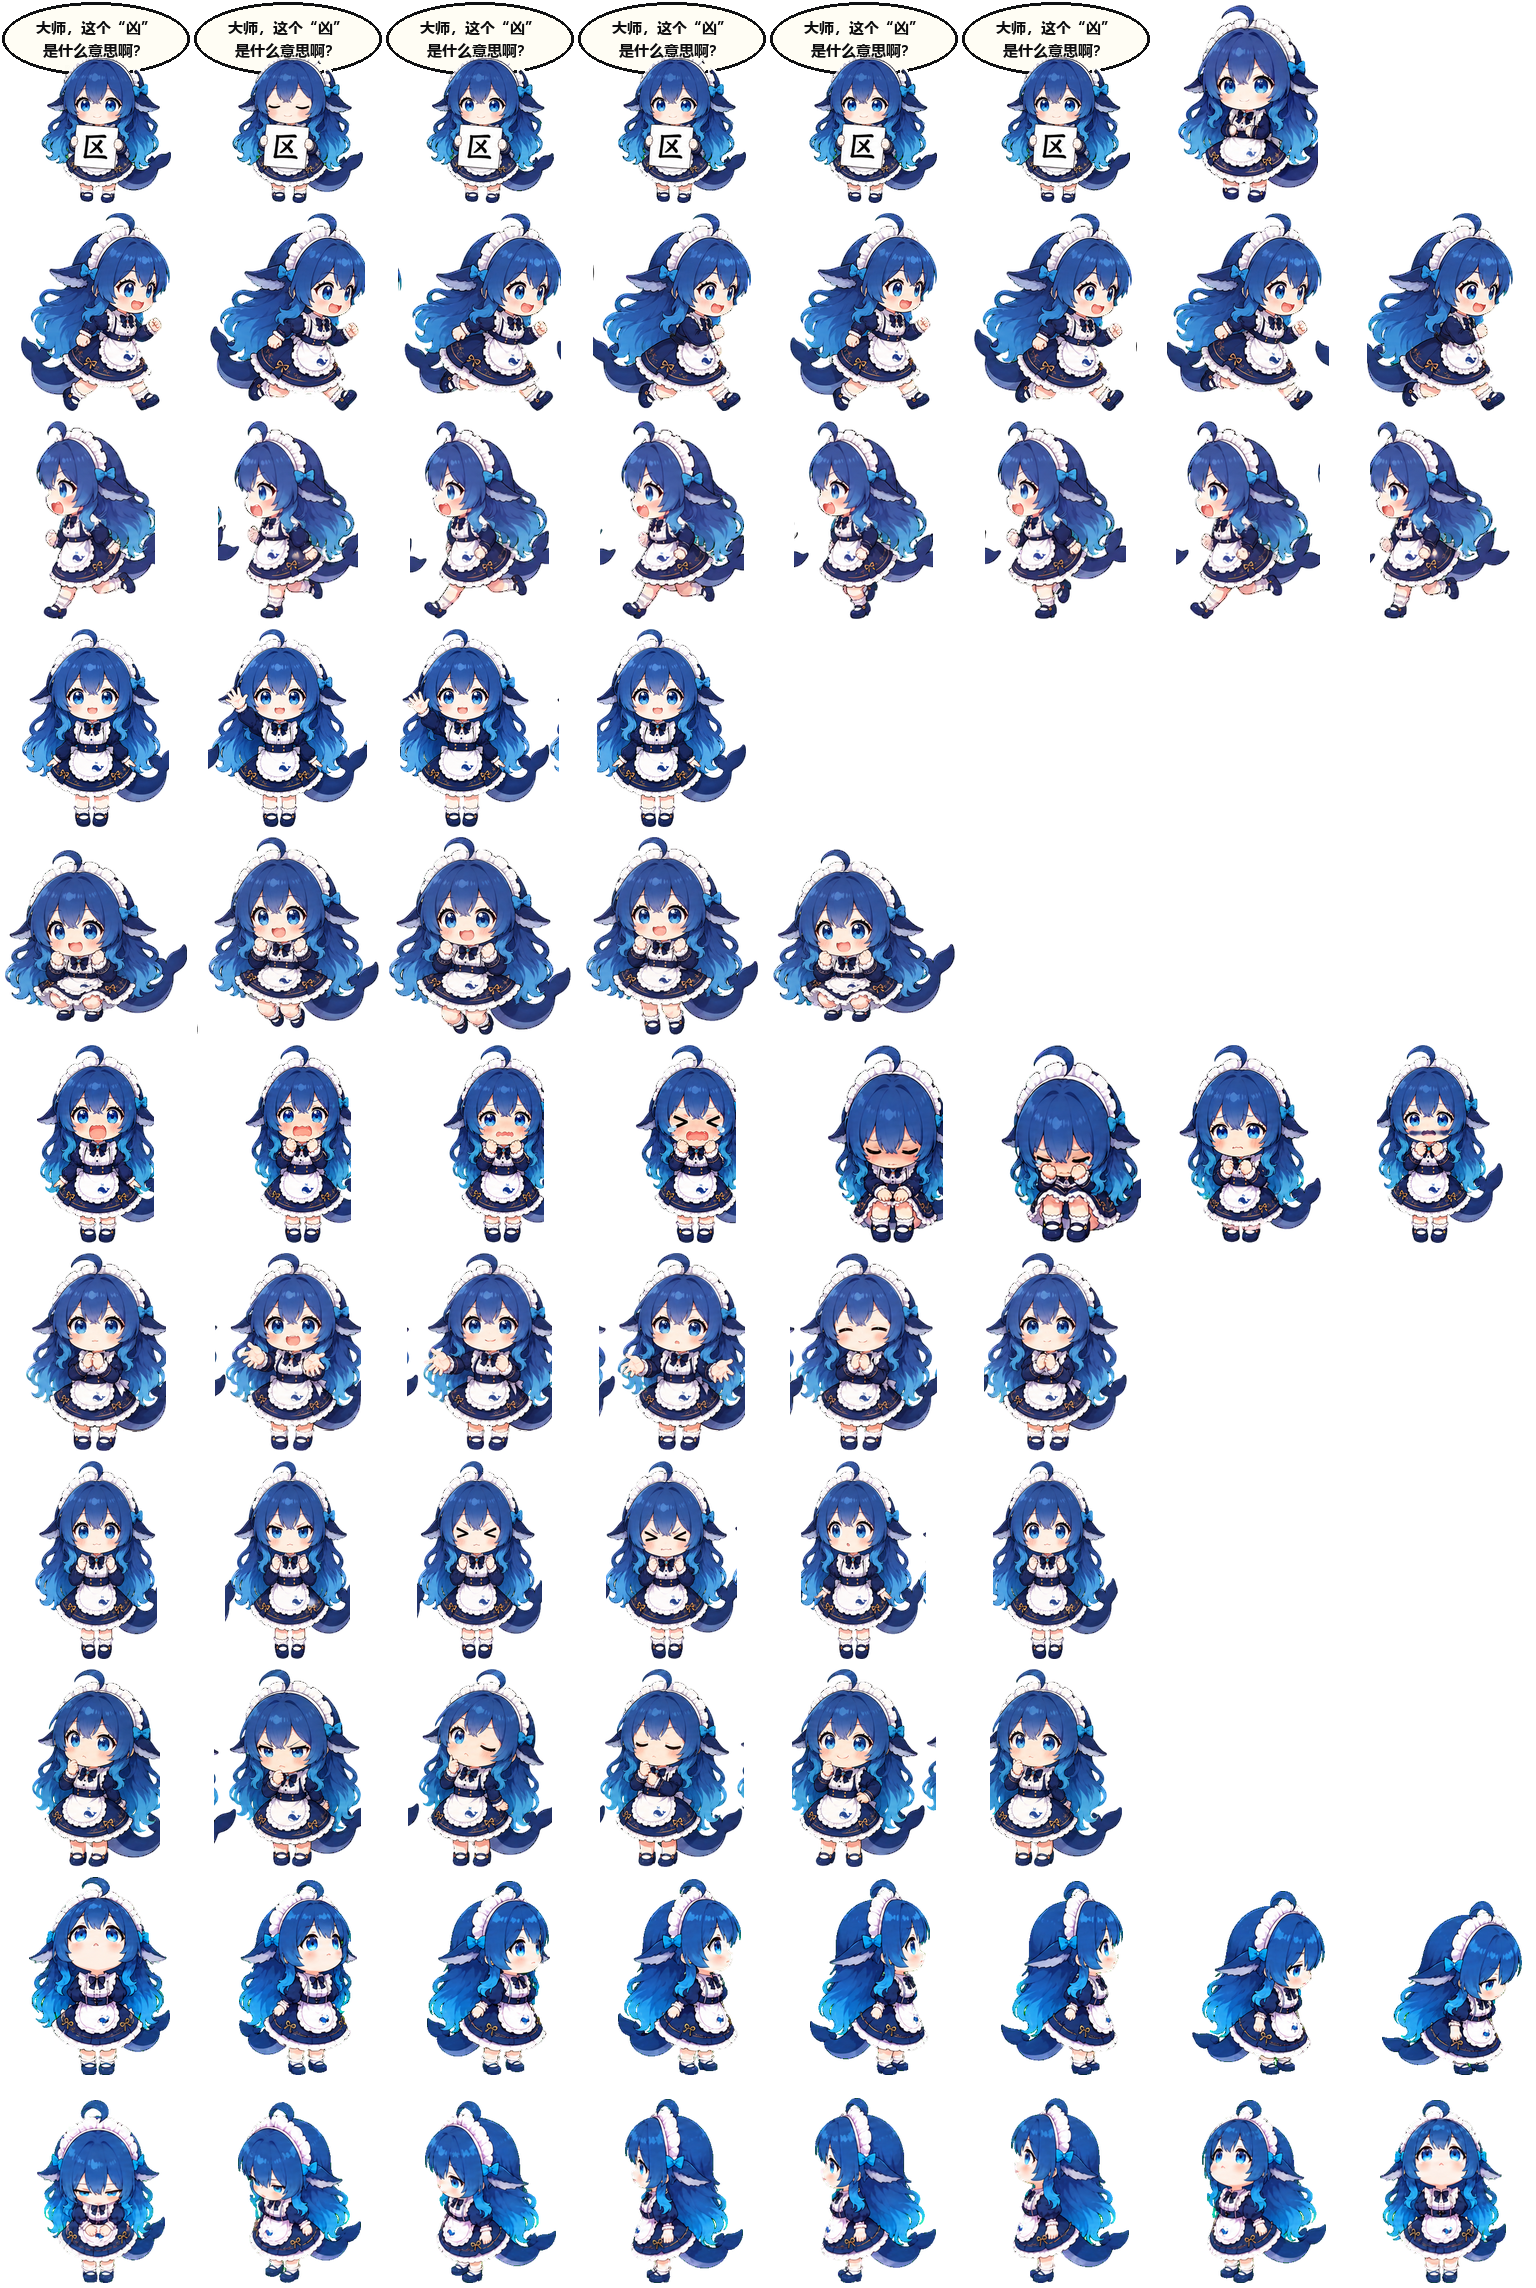
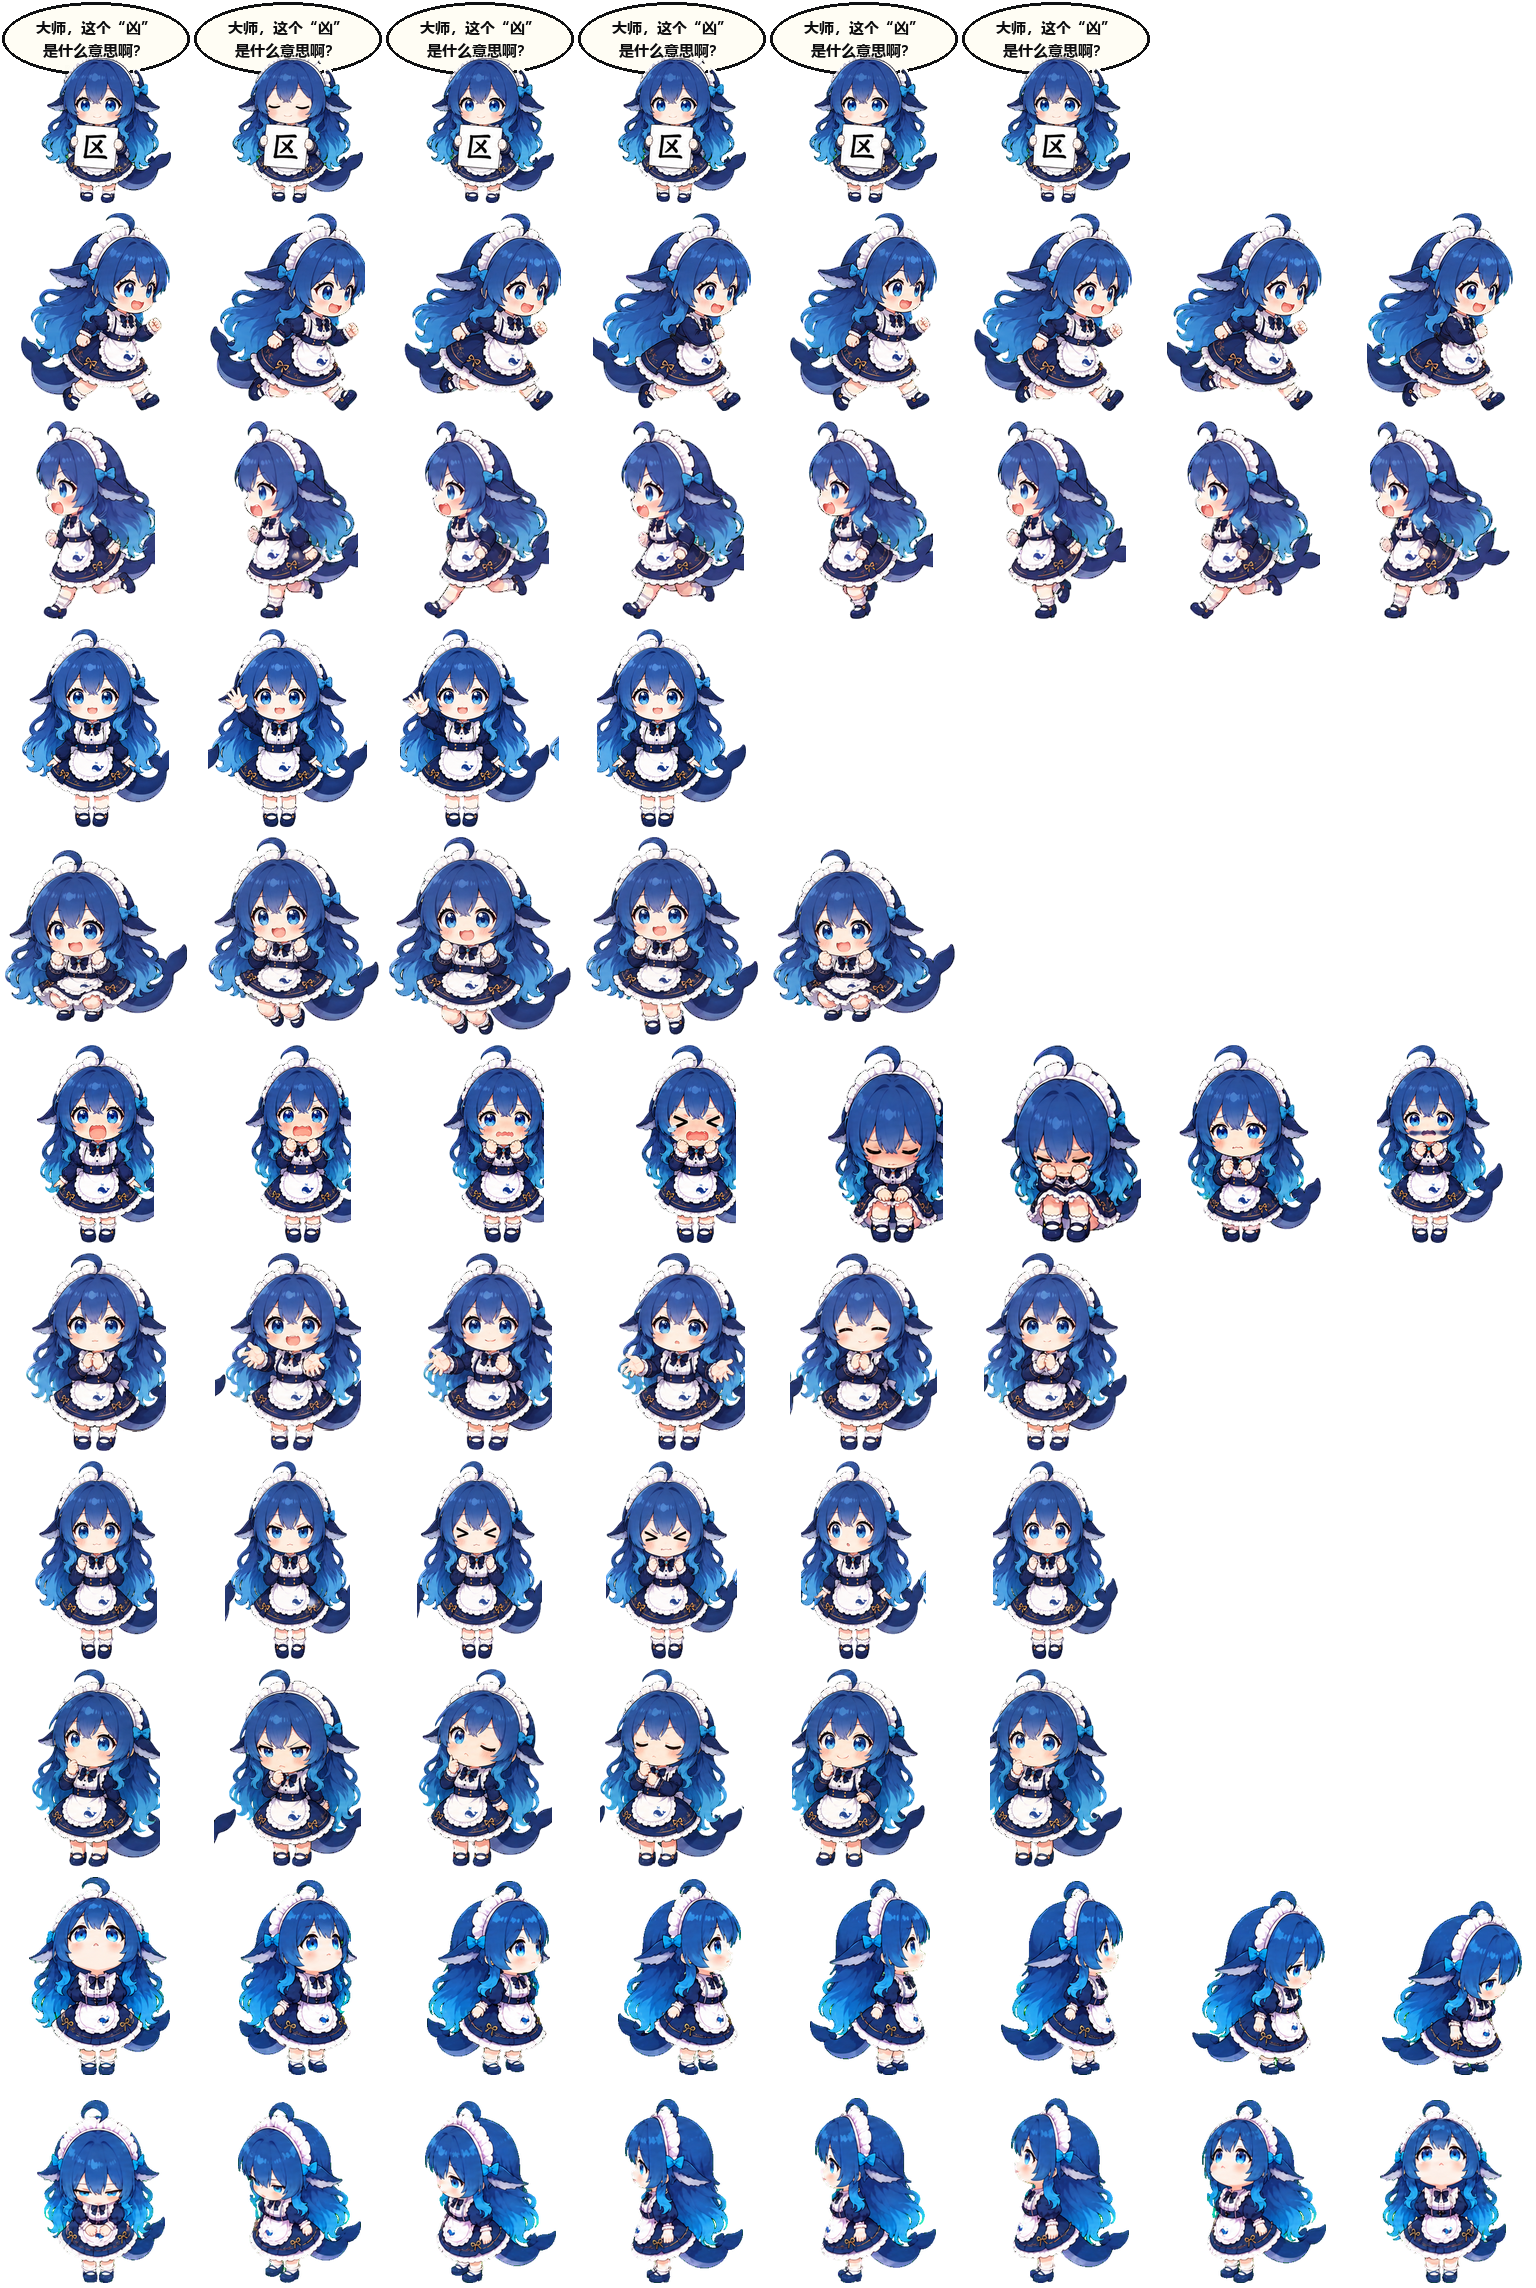
fix: smooth built-in DeepSeek pet

Changed region(s): [[0.75, 0.0, 0.875, 0.0931], [0.375, 0.5896, 0.4062, 0.6206], [0.125, 0.2172, 0.1562, 0.2483]]

diff --git a/packages/companion/src/pet.tsx b/packages/companion/src/pet.tsx
@@ -13,6 +13,7 @@ import {
 import defaultSpritesheet from '../assets/deepseek-pet.webp'
 import {
   clampPetPosition,
+  defaultPetFrameOffset,
   petFrameAt,
   petAtlasRows,
   petTimeline,
@@ -90,9 +91,9 @@ const DEFAULT_PET: PetRecord = {
 }
 
 const PET_CSS = `
- .dsd-pet{--dsd-pet-scale:1.15;position:fixed;z-index:110;bottom:94px;width:calc(192px * var(--dsd-pet-scale));height:calc(208px * var(--dsd-pet-scale));padding:0;border:0;background:transparent;cursor:grab;filter:drop-shadow(0 10px 16px rgb(0 0 0 / 28%));outline:none;touch-action:none;user-select:none;will-change:left,top;contain:layout paint}
+ .dsd-pet{--dsd-pet-scale:1.15;position:fixed;z-index:110;bottom:94px;width:calc(192px * var(--dsd-pet-scale));height:calc(208px * var(--dsd-pet-scale));padding:0;border:0;background:transparent;cursor:grab;filter:drop-shadow(0 8px 12px rgb(0 0 0 / 22%));outline:none;touch-action:none;user-select:none;will-change:left,top;contain:layout}
 .dsd-pet[data-anchor='left']{left:18px}.dsd-pet[data-anchor='right']{right:clamp(18px,34vw,460px)}.dsd-pet[data-dragging='true']{cursor:grabbing;z-index:111}
- .dsd-petSprite{position:absolute;inset:0 auto auto 0;display:block;width:var(--dsd-pet-frame-width);height:var(--dsd-pet-frame-height);background-repeat:no-repeat;background-size:var(--dsd-pet-atlas-width) var(--dsd-pet-atlas-height);background-position:var(--dsd-pet-x) var(--dsd-pet-y);image-rendering:auto;will-change:background-position}
+ .dsd-petSprite{position:absolute;inset:0 auto auto 0;display:block;width:var(--dsd-pet-frame-width);height:var(--dsd-pet-frame-height);background-repeat:no-repeat;background-size:var(--dsd-pet-atlas-width) var(--dsd-pet-atlas-height);background-position:var(--dsd-pet-x) var(--dsd-pet-y);transform:translate(var(--dsd-pet-offset-x,0),var(--dsd-pet-offset-y,0));image-rendering:auto;will-change:background-position,transform}
 .dsd-petStatus{position:absolute;right:4px;bottom:-27px;max-width:210px;overflow:hidden;padding:5px 10px;border:1px solid var(--dsw-alias-border-l2);border-radius:999px;color:var(--dsw-alias-label-secondary);background:color-mix(in srgb,var(--dsw-alias-bg-base) 91%,transparent);box-shadow:var(--dsw-shadow-lv1);font:12px/1.2 system-ui,sans-serif;text-overflow:ellipsis;white-space:nowrap;opacity:0;transform:translateY(4px);transition:opacity .15s ease,transform .15s ease;pointer-events:none}
 .dsd-pet:hover .dsd-petStatus,.dsd-pet:focus-visible .dsd-petStatus,.dsd-pet[data-attention='true'] .dsd-petStatus{opacity:1;transform:none}.dsd-pet:focus-visible{outline:2px solid var(--dsw-alias-border-l3);outline-offset:4px}
 .dsd-petSectionTitle{justify-content:space-between}.dsd-petToggle{display:flex;align-items:center;gap:7px;color:var(--dsw-alias-label-primary);font-size:12px;font-weight:400;cursor:pointer}.dsd-petToggle input{margin:0;accent-color:var(--dsw-alias-state-business-primary)}
@@ -355,11 +356,20 @@ export function PetOverlay({
     : clampPetPosition({ x: controller.settings.x, y: controller.settings.y }, petSize, viewport)
   const hoverMode: PetMode = hovered && baseSignal.mode === 'idle' ? 'jumping' : baseSignal.mode
   const mode: PetMode = drag?.direction ?? hoverMode
-  const frame = usePetFrame(mode, drag?.direction !== undefined, `${controller.selectedPet.id}:${baseSignal.key}:${hovered}:${drag?.direction ?? ''}`, controller.settings.animated)
+  const frame = usePetFrame(
+    mode,
+    drag?.direction !== undefined,
+    `${controller.selectedPet.id}:${baseSignal.key}:${hovered}:${drag?.direction ?? ''}`,
+    controller.settings.animated,
+    controller.selectedPet.id === DEFAULT_PET_ID
+  )
   const looking = lookIndex !== undefined && mode === 'idle' && pointerLookEnabled
   const calmFrameRow = controller.selectedPet.id === DEFAULT_PET_ID && frame.row === 0 ? 6 : frame.row
   const row = looking ? 9 + Math.floor(lookIndex / 8) : calmFrameRow
   const column = looking ? lookIndex % 8 : frame.column
+  const frameOffset = controller.selectedPet.id === DEFAULT_PET_ID && !looking
+    ? defaultPetFrameOffset(row, column)
+    : { x: 0, y: 0 }
   const attention = baseSignal.mode === 'failed' || baseSignal.mode === 'review' || baseSignal.mode === 'waiting'
   const label = drag !== undefined
     ? '正在移动'
@@ -379,7 +389,9 @@ export function PetOverlay({
     '--dsd-pet-atlas-width': `${1536 * scale}px`,
     '--dsd-pet-atlas-height': `${petAtlasRows(controller.selectedPet.spriteVersionNumber) * PET_FRAME_HEIGHT * scale}px`,
     '--dsd-pet-x': `${-(column * PET_FRAME_WIDTH * scale)}px`,
-    '--dsd-pet-y': `${-(row * PET_FRAME_HEIGHT * scale)}px`
+    '--dsd-pet-y': `${-(row * PET_FRAME_HEIGHT * scale)}px`,
+    '--dsd-pet-offset-x': `${frameOffset.x * scale}px`,
+    '--dsd-pet-offset-y': `${frameOffset.y * scale}px`
   } as CSSProperties
 
   const onPointerDown = (event: ReactPointerEvent<HTMLButtonElement>): void => {
@@ -576,8 +588,8 @@ export function PetSettings({ controller }: { controller: PetController }): Reac
   </>
 }
 
-function usePetFrame(mode: PetMode, continuous: boolean, key: string, animated: boolean): PetFrameStep {
-  const timeline = petTimeline(mode, continuous)
+function usePetFrame(mode: PetMode, continuous: boolean, key: string, animated: boolean, smoothCadence: boolean): PetFrameStep {
+  const timeline = petTimeline(mode, continuous, smoothCadence ? 'smooth' : 'codex')
   const [sample, setSample] = useState(() => petFrameAt(timeline, 0))
   useEffect(() => {
     setSample(petFrameAt(timeline, 0))

diff --git a/packages/companion/src/pet-runtime.ts b/packages/companion/src/pet-runtime.ts
@@ -52,6 +52,8 @@ export interface PetPoint {
   y: number
 }
 
+export type PetAnimationCadence = 'codex' | 'smooth'
+
 export const PET_FRAME_WIDTH = 192
 export const PET_FRAME_HEIGHT = 208
 export const PET_ATLAS_COLUMNS = 8
@@ -73,9 +75,25 @@ const ANIMATIONS: Record<Exclude<PetMode, 'idle'>, { row: number; frames: number
   review: { row: 8, frames: 6, duration: 150, finalDuration: 280 }
 }
 
+const SMOOTH_ANIMATION_DURATION = 83
+const SMOOTH_FINAL_FRAME_DURATION = 125
+const DEFAULT_PET_FOOT_ANCHOR_X = 96
+const DEFAULT_PET_FOOT_ANCHORS: Readonly<Record<number, readonly number[]>> = {
+  1: [137, 150, 153, 146, 78, 149, 145, 143],
+  2: [55, 78, 54, 61, 90, 84.5, 52, 50],
+  3: [92, 87, 78, 80.5],
+  4: [86, 101, 97, 82, 85],
+  5: [98, 111, 120, 120, 123.5, 110, 90, 86],
+  6: [98, 103, 106, 106, 95.5, 91],
+  7: [96, 98, 92, 91.5, 86, 86],
+  8: [90, 102, 89.5, 83, 79, 75]
+}
+
 const IDLE_TIMELINE: PetTimeline = { steps: IDLE_STEPS, loopStart: 0 }
 const TRANSIENT_TIMELINES = buildTimelines(false)
 const CONTINUOUS_TIMELINES = buildTimelines(true)
+const SMOOTH_TRANSIENT_TIMELINES = buildTimelines(false, 'smooth')
+const SMOOTH_CONTINUOUS_TIMELINES = buildTimelines(true, 'smooth')
 
 export function selectPetSessionSignal(state: PetSessionSnapshot, hasCurrentError = false): PetSignal {
   const currentId = state.current
@@ -116,8 +134,9 @@ export function selectPetSessionSignal(state: PetSessionSnapshot, hasCurrentErro
   return { mode: 'idle', key: `idle:${currentId ?? ''}`, label: '待机中' }
 }
 
-export function petTimeline(mode: PetMode, continuous = false): PetTimeline {
+export function petTimeline(mode: PetMode, continuous = false, cadence: PetAnimationCadence = 'codex'): PetTimeline {
   if (mode === 'idle') return IDLE_TIMELINE
+  if (cadence === 'smooth') return continuous ? SMOOTH_CONTINUOUS_TIMELINES[mode] : SMOOTH_TRANSIENT_TIMELINES[mode]
   return continuous ? CONTINUOUS_TIMELINES[mode] : TRANSIENT_TIMELINES[mode]
 }
 
@@ -160,6 +179,12 @@ export function resolvePetDragDirection(dx: number, dy: number, threshold = 4): 
   return undefined
 }
 
+export function defaultPetFrameOffset(row: number, column: number): PetPoint {
+  const anchor = DEFAULT_PET_FOOT_ANCHORS[row]?.[column]
+  if (anchor === undefined) return { x: 0, y: 0 }
+  return { x: DEFAULT_PET_FOOT_ANCHOR_X - anchor, y: 0 }
+}
+
 export function clampPetPosition(
   point: PetPoint,
   petSize: { width: number; height: number },
@@ -176,13 +201,15 @@ function clamp(value: number, min: number, max: number): number {
   return Math.min(max, Math.max(min, value))
 }
 
-function buildTimelines(continuous: boolean): Record<Exclude<PetMode, 'idle'>, PetTimeline> {
+function buildTimelines(continuous: boolean, cadence: PetAnimationCadence = 'codex'): Record<Exclude<PetMode, 'idle'>, PetTimeline> {
   const timelines = {} as Record<Exclude<PetMode, 'idle'>, PetTimeline>
   for (const mode of Object.keys(ANIMATIONS) as Array<Exclude<PetMode, 'idle'>>) {
     const animation = ANIMATIONS[mode]
     const primary = Array.from({ length: animation.frames }, (_, column) => ({
       column,
-      duration: column === animation.frames - 1 ? animation.finalDuration : animation.duration,
+      duration: cadence === 'smooth'
+        ? column === animation.frames - 1 ? SMOOTH_FINAL_FRAME_DURATION : SMOOTH_ANIMATION_DURATION
+        : column === animation.frames - 1 ? animation.finalDuration : animation.duration,
       row: animation.row
     }))
     timelines[mode] = continuous

diff --git a/test/pet-runtime.test.ts b/test/pet-runtime.test.ts
@@ -1,6 +1,7 @@
 import { describe, expect, it } from 'vitest'
 import {
   clampPetPosition,
+  defaultPetFrameOffset,
   petFrameAt,
   petAtlasRows,
   petTimeline,
@@ -75,6 +76,12 @@ describe('Codex animation metrics', () => {
     expect(petFrameAt(timeline, 2_460).index).toBe(18)
     expect(petFrameAt(timeline, 2_460 + 1_680).index).toBe(19)
   })
+
+  it('raises only the built-in pet activity cadence to twelve frames per second', () => {
+    const timeline = petTimeline('running-right', true, 'smooth')
+    expect(timeline.steps.map((step) => step.duration)).toEqual([83, 83, 83, 83, 83, 83, 83, 125])
+    expect(petFrameAt(timeline, 83).index).toBe(1)
+  })
 })
 
 describe('pet geometry', () => {
@@ -101,5 +108,12 @@ describe('pet geometry', () => {
     expect(resolvePetDragDirection(0, 8)).toBeUndefined()
     expect(resolvePetDragDirection(4, 0)).toBe('running-right')
     expect(resolvePetDragDirection(-4, 0)).toBe('running-left')
+  })
+
+  it('keeps the built-in whale girl foot anchor stable across atlas frames', () => {
+    expect(defaultPetFrameOffset(6, 0)).toEqual({ x: -2, y: 0 })
+    expect(defaultPetFrameOffset(6, 2)).toEqual({ x: -10, y: 0 })
+    expect(defaultPetFrameOffset(1, 2)).toEqual({ x: -57, y: 0 })
+    expect(defaultPetFrameOffset(9, 0)).toEqual({ x: 0, y: 0 })
   })
 })

diff --git a/THIRD_PARTY_NOTICES.md b/THIRD_PARTY_NOTICES.md
@@ -10,7 +10,7 @@ The packaged `node_modules` tree retains the license files and package metadata 
 
 ## Whale-girl visual assets
 
-DeepSeek Desktop 0.7.0 embeds the following visual assets under the
+DeepSeek Desktop 0.8.0 embeds the following visual assets under the
 [Creative Commons Attribution-NonCommercial-ShareAlike 4.0 International](https://creativecommons.org/licenses/by-nc-sa/4.0/)
 license. These assets are excluded from the project's MIT License and may only be used under their own terms.
 
@@ -20,7 +20,7 @@ license. These assets are excluded from the project's MIT License and may only b
 
 The bundled DeepSeek pet atlas is a separate MIT-licensed work:
 
-- `packages/companion/assets/deepseek-pet.webp`: 8×11, 1536×2288 DeepSeek whale-girl pet atlas by f0909172434.
+- `packages/companion/assets/deepseek-pet.webp`: adapted 8×11, 1536×2288 DeepSeek whale-girl pet atlas by f0909172434; this release removes detached Alpha residue and clears unused frame cells without redrawing the character art.
 - `licenses/MIT-deepseek-pet.txt`: preserved upstream MIT license for the pet atlas.
 
 Attribution chain for the whale-girl material:
